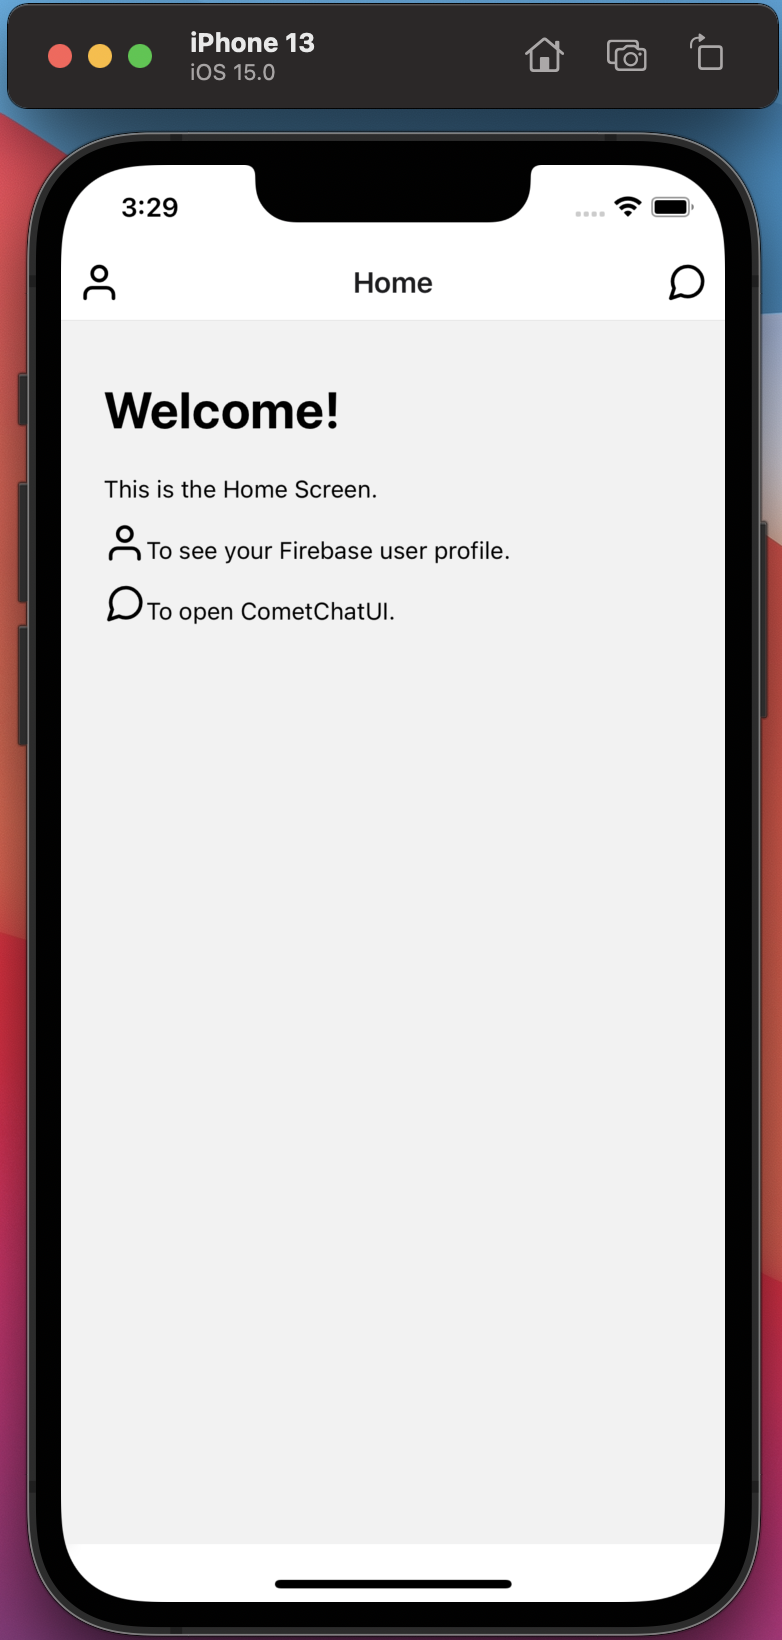
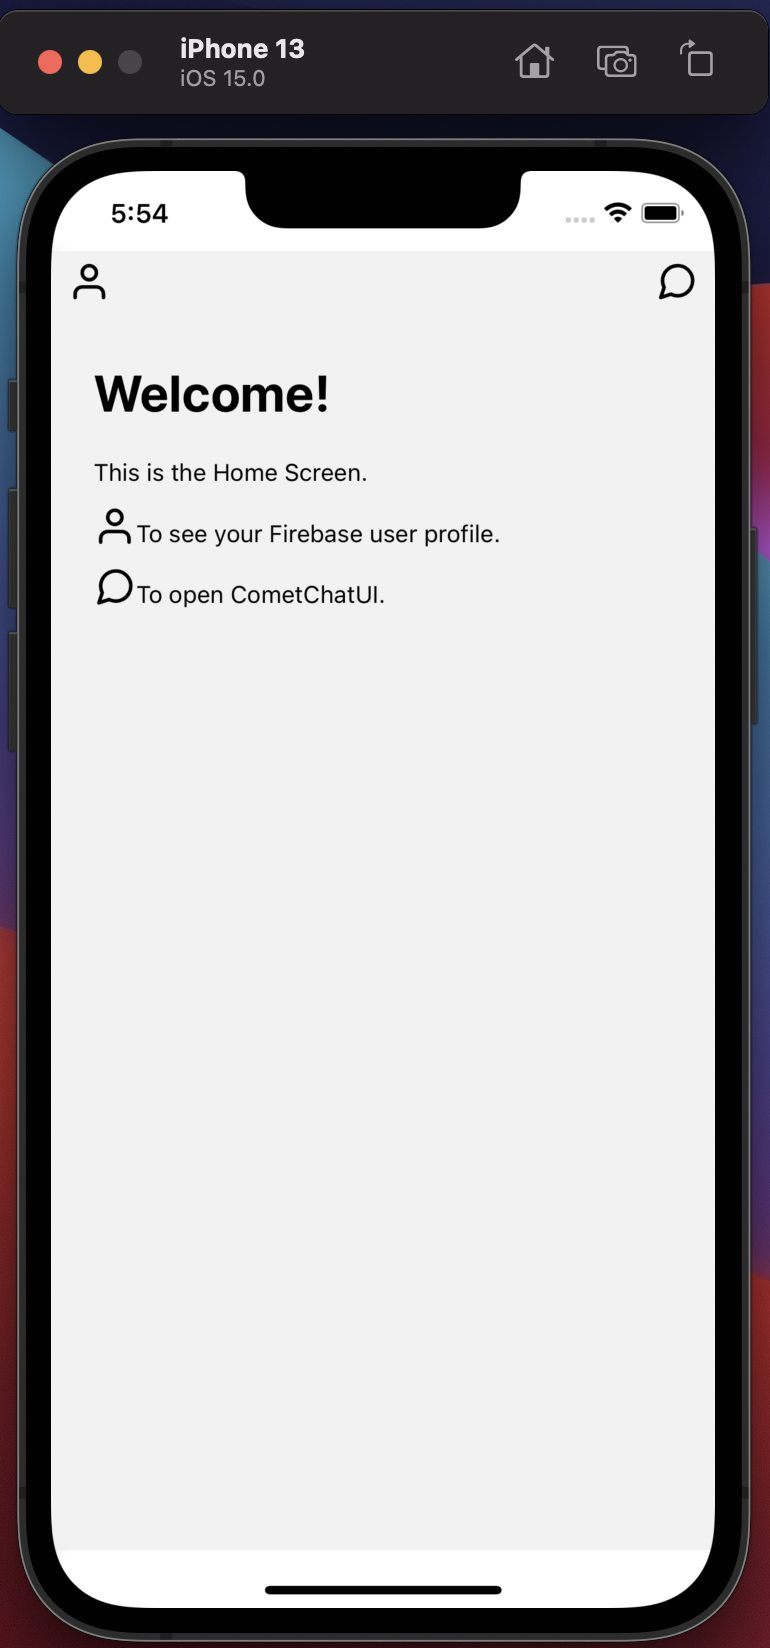
Updated readme.md and screenshots

Changed region(s): [[0.0, 0.0, 1.0, 1.0], [0.1247, 0.2177, 0.6545, 0.4043]]

diff --git a/README.md b/README.md
@@ -472,6 +472,11 @@ export const styles = StyleSheet.create({
     padding: 20,
     borderRadius: 10,
   },
+  headerContainer: {
+    marginTop: 5,
+    flexDirection: 'row',
+    justifyContent: 'space-between',
+  },
 });
 ```
 
@@ -1300,7 +1305,10 @@ const AuthScreens = () => (
 
 // 👇 New Stack Navigation for Home, Profile, that are coming next.
 const HomeScreen = () => (
-  <Stack.Navigator>
+  <Stack.Navigator
+    screenOptions={{
+      headerShown: false,
+    }}>
     <Stack.Screen name="Home" component={Home} />
     <Stack.Screen name="Profile" component={Profile} />
   </Stack.Navigator>
@@ -1350,31 +1358,26 @@ Let's add the new screens:
 `/screens/Home/index.js`
 
 ```js
-import React, {useEffect} from 'react';
+import React from 'react';
 import {View, Text, TouchableOpacity} from 'react-native';
 import {styles} from '../../styles';
 import FeatherIcon from 'react-native-vector-icons/Feather';
 
 export default function Home({navigation}) {
-  useEffect(() => {
-    navigation.setOptions({
-      headerLeft: () => (
+  return (
+    <View style={styles.container}>
+      <View style={styles.headerContainer}>
         <TouchableOpacity
           style={styles.ml10}
           onPress={() => navigation.navigate('Profile')}>
           <FeatherIcon name="user" size={25} color="#000" />
         </TouchableOpacity>
-      ),
-      headerRight: () => (
-        <TouchableOpacity style={styles.mr10} onPress={() => {}}>
+        <TouchableOpacity
+          style={styles.mr10}
+          onPress={() => navigation.navigate('CometChat')}>
           <FeatherIcon name="message-circle" size={25} color="#000" />
         </TouchableOpacity>
-      ),
-    });
-  }, [navigation]);
-
-  return (
-    <View style={styles.container}>
+      </View>
       <View style={styles.body}>
         <Text style={styles.title}>Welcome!</Text>
         <Text style={styles.content}>This is the Home Screen.</Text>
@@ -1395,7 +1398,7 @@ export default function Home({navigation}) {
 `/screens/Profile/index.js`
 
 ```js
-import React, {useEffect, useCallback} from 'react';
+import React, {useCallback} from 'react';
 import {View, Text, TouchableOpacity} from 'react-native';
 import {styles} from '../../styles';
 import {useFirebase} from '../../context/FirebaseContext';
@@ -1404,6 +1407,7 @@ import {signOut} from 'firebase/auth';
 import {Avatar} from 'react-native-elements';
 import {CometChat} from '@cometchat-pro/react-native-chat';
 import {useCometChatAuth} from '../../context/CometChatAuthContext';
+import FeatherIcon from 'react-native-vector-icons/Feather';
 
 export default function Profile({navigation}) {
   const {firebaseUser, dispatchFirebaseAction} = useFirebase();
@@ -1437,18 +1441,18 @@ export default function Profile({navigation}) {
       });
   }, [dispatchFirebaseAction, dispatchCometAction, cometAuth]);
 
-  useEffect(() => {
-    navigation.setOptions({
-      headerRight: () => (
-        <TouchableOpacity style={styles.mr10} onPress={() => handleLogout()}>
-          <Text>Logout</Text>
-        </TouchableOpacity>
-      ),
-    });
-  }, [navigation, handleLogout]);
-
   return (
     <View style={styles.container}>
+      <View style={styles.headerContainer}>
+        <TouchableOpacity
+          style={styles.ml10}
+          onPress={() => navigation.goBack()}>
+          <FeatherIcon name="arrow-left" size={25} color="#000" />
+        </TouchableOpacity>
+        <TouchableOpacity style={styles.mr10} onPress={() => handleLogout()}>
+          <FeatherIcon name="log-out" size={25} color="#000" />
+        </TouchableOpacity>
+      </View>
       <View style={styles.body}>
         <View style={styles.card}>
           <Avatar
@@ -1466,6 +1470,8 @@ export default function Profile({navigation}) {
   );
 }
 ```
+
+![Profile Screen](./screenshots/profile-screen.png)
 
 Finally, you should test the Firebase Authentication process for Login/LogOut/SignUp users.
 
@@ -1487,7 +1493,7 @@ Once we finish with the authentication, finally, we can jump right into CometCha
 
 ```js
 import React from 'react';
-import {View, Text} from 'react-native';
+import {View, Text, TouchableOpacity} from 'react-native';
 import {styles} from '../../styles';
 import {Button, Chip} from 'react-native-elements';
 
@@ -1495,8 +1501,9 @@ import {CometChat} from '@cometchat-pro/react-native-chat';
 import {useFirebase} from '../../context/FirebaseContext';
 import {COMETCHAT_CONSTANTS} from '../../../constants';
 import {useCometChatAuth} from '../../context/CometChatAuthContext';
+import FeatherIcon from 'react-native-vector-icons/Feather';
 
-export default function CometChatScreens() {
+export default function CometChatScreens({navigation}) {
   const {firebaseUser} = useFirebase();
   const {cometAuth, dispatchCometAction} = useCometChatAuth();
 
@@ -1521,6 +1528,13 @@ export default function CometChatScreens() {
 
   return (
     <View style={styles.container}>
+      <View style={styles.headerContainer}>
+        <TouchableOpacity
+          style={styles.ml10}
+          onPress={() => navigation.goBack()}>
+          <FeatherIcon name="arrow-left" size={25} color="#000" />
+        </TouchableOpacity>
+      </View>
       <View style={styles.body}>
         <Text style={styles.title}>Welcome to CometChat!</Text>
         <Button title="Sign In" loading={false} onPress={handleSignIn} />
@@ -1569,15 +1583,14 @@ const AuthScreens = () => (
 );
 
 const HomeScreen = () => (
-  <Stack.Navigator>
+  <Stack.Navigator
+    screenOptions={{
+      headerShown: false,
+    }}>
     <Stack.Screen name="Home" component={Home} />
     <Stack.Screen name="Profile" component={Profile} />
     {/* New CometChat screen 👇 */}
-    <Stack.Screen
-      name="CometChat"
-      component={CometChat}
-      options={{title: ''}}
-    />
+    <Stack.Screen name="CometChat" component={CometChat} />
   </Stack.Navigator>
 );
 
@@ -1614,53 +1627,6 @@ const MainScreens = () => {
 export default MainScreens;
 ```
 
-Also, remember to update ther Home Screen so we can navigate into CometChat Screen.
-
-```js
-import React, {useEffect} from 'react';
-import {View, Text, TouchableOpacity} from 'react-native';
-import {styles} from '../../styles';
-import FeatherIcon from 'react-native-vector-icons/Feather';
-
-export default function Home({navigation}) {
-  useEffect(() => {
-    navigation.setOptions({
-      headerLeft: () => (
-        <TouchableOpacity
-          style={styles.ml10}
-          onPress={() => navigation.navigate('Profile')}>
-          <FeatherIcon name="user" size={25} color="#000" />
-        </TouchableOpacity>
-      ),
-      headerRight: () => (
-        <TouchableOpacity
-          style={styles.mr10}
-          onPress={() => navigation.navigate('CometChat')}>
-          <FeatherIcon name="message-circle" size={25} color="#000" />
-        </TouchableOpacity>
-      ),
-    });
-  }, [navigation]);
-
-  return (
-    <View style={styles.container}>
-      <View style={styles.body}>
-        <Text style={styles.title}>Welcome!</Text>
-        <Text style={styles.content}>This is the Home Screen.</Text>
-        <Text style={styles.content}>
-          <FeatherIcon name="user" size={25} color="#000" />
-          To see your Firebase user profile.
-        </Text>
-        <Text style={styles.content}>
-          <FeatherIcon name="message-circle" size={25} color="#000" />
-          To open CometChatUI.
-        </Text>
-      </View>
-    </View>
-  );
-}
-```
-
 Now we can test the CometChat Sign In process. For that run the App in the simulator and navigate into CometChat Screen.
 
 ![CometChat Screen](./screenshots/cometchatscreen.png)
@@ -1673,7 +1639,7 @@ Now that we have the basic authentication process, let's add a new screen from t
 
 ```js
 import React, {useEffect} from 'react'; // 👈 Importing useEffect
-import {View, Text} from 'react-native';
+import {View, Text, TouchableOpacity} from 'react-native';
 import {styles} from '../../styles';
 import {Button, Chip} from 'react-native-elements';
 import {useCometChatAuth} from '../../context/CometChatAuthContext'; // 👈 Import the new Context Provider custom hook
@@ -1685,6 +1651,7 @@ import {createStackNavigator} from '@react-navigation/stack';
 import {CometChat} from '@cometchat-pro/react-native-chat';
 import {useFirebase} from '../../context/FirebaseContext';
 import {COMETCHAT_CONSTANTS} from '../../../constants';
+import FeatherIcon from 'react-native-vector-icons/Feather';
 
 const Stack = createStackNavigator();
 
@@ -1704,7 +1671,7 @@ const CometChatUIScreens = () => (
   </Stack.Navigator>
 );
 
-export default function CometChatScreens() {
+export default function CometChatScreens({navigation}) {
   const {cometAuth, dispatchCometAction} = useCometChatAuth(); // Destructuring the state & dispatch function.
   const {firebaseUser} = useFirebase();
 
@@ -1754,6 +1721,13 @@ export default function CometChatScreens() {
 
   return (
     <View style={styles.container}>
+      <View style={styles.headerContainer}>
+        <TouchableOpacity
+          style={styles.ml10}
+          onPress={() => navigation.goBack()}>
+          <FeatherIcon name="arrow-left" size={25} color="#000" />
+        </TouchableOpacity>
+      </View>
       <View style={styles.body}>
         <Text style={styles.title}>Welcome to CometChat!</Text>
         <Button title="Sign In" loading={false} onPress={handleSignIn} />
@@ -1799,6 +1773,8 @@ import {useAuth} from '../../../../src/context/AuthContext';
 ...
 // Here we create the Icon for Logout
 const closeIcon = <Icon color={theme.color.helpText} name="close" size={28} />;
+// Here we create the Icon for Go back to Home
+const homeIcon = <Icon color={theme.color.helpText} name="home" size={28} />;
 
 const CometChatUserProfile = props => {
   const [user, setUser] = useState({});
@@ -1829,17 +1805,66 @@ const CometChatUserProfile = props => {
  // Lastly, make sure you add the UI for the Logout feature using same styling with a TouchableOpacity component from RN.
   return (
     <SafeAreaView style={styles.userInfoScreenStyle}>
-      ...
-      <View style={styles.infoItemsContainer}>
-        ...
-        <View style={styles.infoItem}>
-          {closeIcon}
-          <TouchableOpacity onPress={() => logOut()}>
-            <Text style={styles.infoItemText}>Logout</Text>
-          </TouchableOpacity>
+      <View style={styles.headingContainer}>
+        <Text style={styles.headerTitleStyle}>More</Text>
+      </View>
+      <View style={styles.userContainer}>
+        <View style={styles.avatarContainer}>{avatar}</View>
+        {user?.name ? (
+          <View style={styles.userDetailsContainer}>
+            <View style={styles.userNameWrapper}>
+              <Text style={styles.userName}>{user?.name}</Text>
+            </View>
+            <Text style={styles.status}>Online</Text>
+          </View>
+        ) : null}
+      </View>
+      <View style={styles.infoItemsWrapper}>
+        <View style={styles.infoItemHeadingContainer}>
+          <Text style={styles.infoItemHeadingText}>Preferences</Text>
+        </View>
+        <View style={styles.infoItemsContainer}>
+          <View style={styles.infoItem}>
+            {notificationIcon}
+            <Text style={styles.infoItemText}>Notifications</Text>
+          </View>
+          <View style={styles.infoItem}>
+            {privacyIcon}
+            <Text style={styles.infoItemText}>Privacy and Security</Text>
+          </View>
+          <View style={styles.infoItem}>
+            {chatIcon}
+            <Text style={styles.infoItemText}>Chats</Text>
+          </View>
+        </View>
+        <View style={styles.infoItemHeadingContainer}>
+          <Text style={styles.infoItemHeadingText}>Other</Text>
+        </View>
+        <View style={styles.infoItemsContainer}>
+          <View style={styles.infoItem}>
+            {helpIcon}
+            <Text style={styles.infoItemText}>Help</Text>
+          </View>
+          <View style={styles.infoItem}>
+            {problemIcon}
+            <Text style={styles.infoItemText}>Report a Problem</Text>
+          </View>
+          {/* 👇 Added Logout section */}
+          <View style={styles.infoItem}>
+            {closeIcon}
+            <TouchableOpacity onPress={() => logOut()}>
+              <Text style={styles.infoItemText}>Logout</Text>
+            </TouchableOpacity>
+          </View>
+          {/* 👇 Added Got to Home section */}
+          <View style={styles.infoItem}>
+            {homeIcon}
+            <TouchableOpacity onPress={() => props.navigation.navigate('Home')}>
+              <Text style={styles.infoItemText}>Go to Home</Text>
+            </TouchableOpacity>
+          </View>
         </View>
       </View>
-      ...
     </SafeAreaView>
   );
 };
